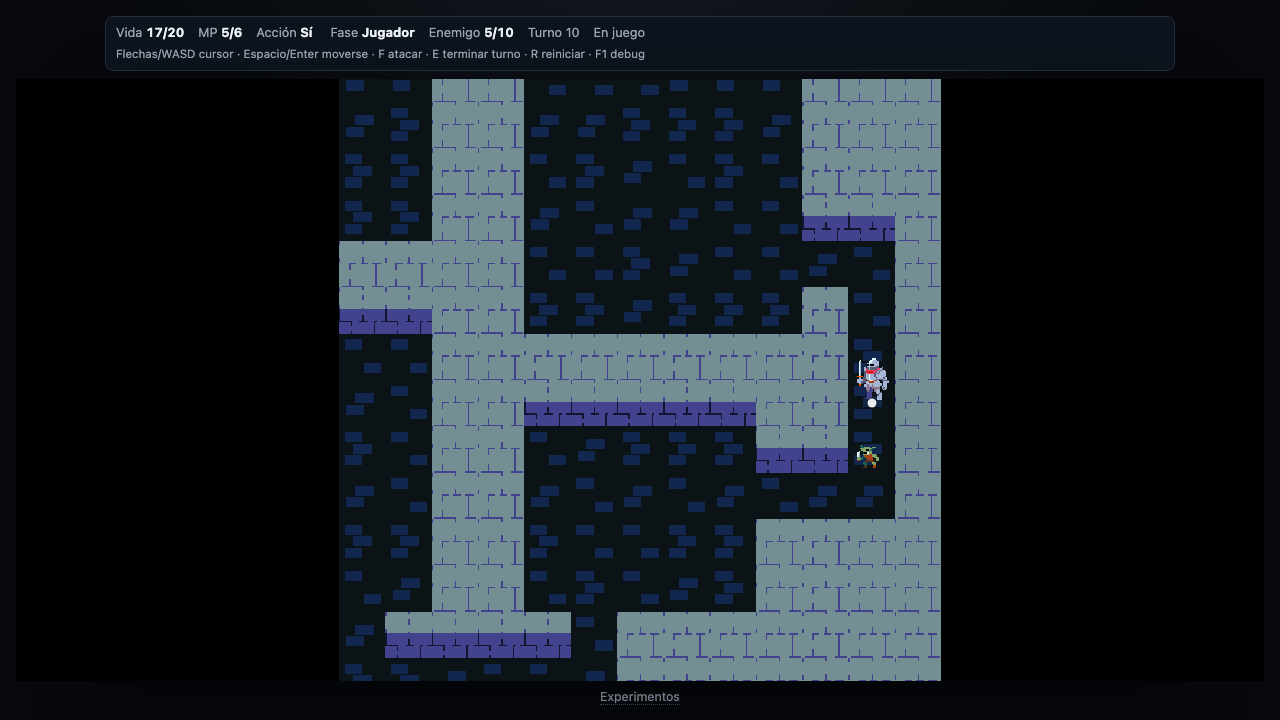
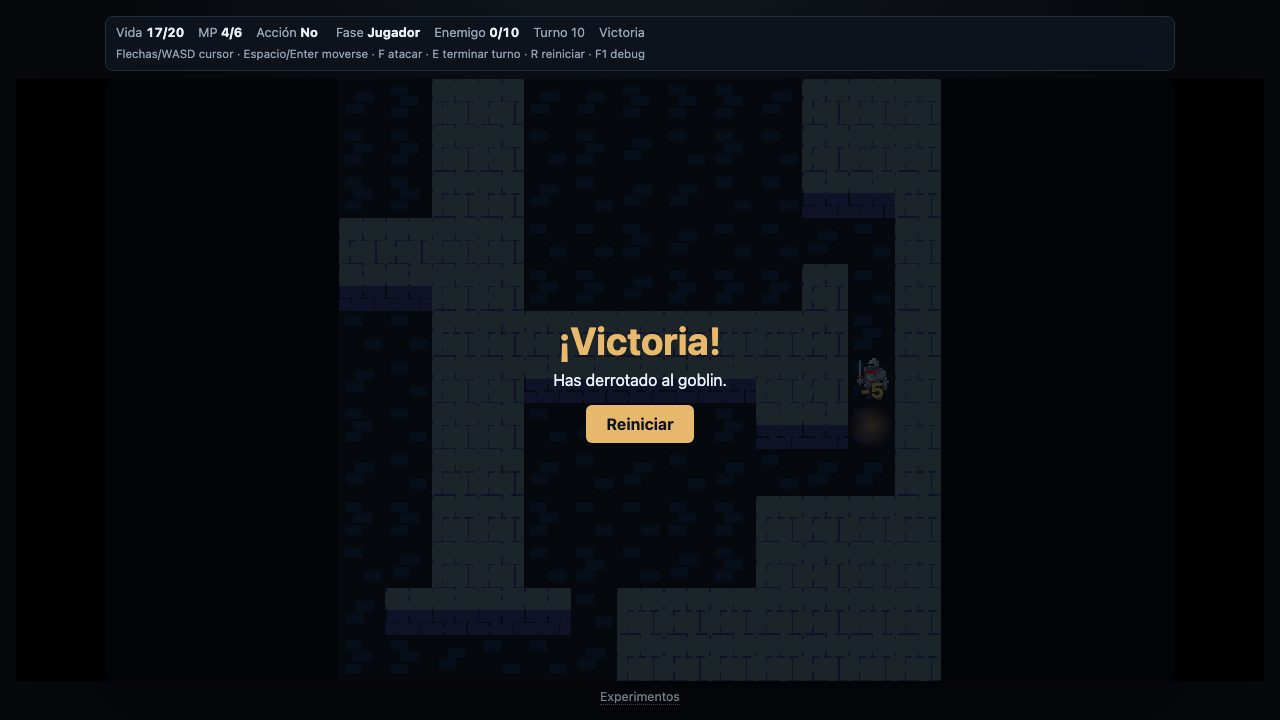
test(TASK-0019): capturar el ataque real y verificar F/E tras la animación

Changed region(s): [[0.25, 0.0917, 0.75, 0.9472], [0.2188, 0.0306, 0.5, 0.0611], [0.25, 0.0917, 0.2812, 0.1222]]

diff --git a/tests/e2e/motion-qa.spec.ts b/tests/e2e/motion-qa.spec.ts
@@ -66,6 +66,7 @@ async function screenshot(
   page: Page,
   name: string,
   testInfo: TestInfo,
+  clip?: { readonly x: number; readonly y: number; readonly width: number; readonly height: number },
 ): Promise<void> {
   // Las repeticiones escriben en `test-results` para no competir por el mismo
   // PNG versionado entre workers.
@@ -74,7 +75,7 @@ async function screenshot(
       ? `${SCREENSHOTS}/${name}.png`
       : testInfo.outputPath(`${name}.png`);
   await mkdir(dirname(path), { recursive: true });
-  await page.screenshot({ path });
+  await page.screenshot({ path, ...(clip ? { clip } : {}) });
   await testInfo.attach(name, { path, contentType: 'image/png' });
 }
 
@@ -543,6 +544,33 @@ test('input de juego ignorado durante la animación; F1 y R responden; R cancela
   expect(afterSecond.animation.animating).toBe(false);
   expect(afterSecond.players[0]).toMatchObject({ x: 7, y: 8, mp: 5 });
   await expect(page.getByTestId('hud-player-mp')).toHaveText('5/6');
+  expect(afterSecond.cursor).toMatchObject({ x: 7, y: 8, visible: true });
+
+  // F vuelve a responder: sin enemigo bajo el cursor es un aviso, no un comando.
+  const beforeF = await snapshot(page);
+  await page.keyboard.press('f');
+  const afterF = await snapshot(page);
+  expect(afterF.players).toEqual(beforeF.players);
+  expect(afterF.enemies).toEqual(beforeF.enemies);
+  expect(afterF.turn).toBe(beforeF.turn);
+  expect(afterF.phase).toBe(beforeF.phase);
+  expect(afterF.lastEvents).toEqual(beforeF.lastEvents);
+  await expect(page.getByTestId('hud-message')).toHaveText('Enemigo fuera de alcance');
+  await expect(page.getByTestId('hud-message')).toBeVisible();
+
+  // E vuelve a responder: termina el turno y la fase enemiga se completa.
+  await page.keyboard.press('e');
+  const afterEndTurn = await settle(page);
+  expect(afterEndTurn).toMatchObject({ turn: 2, phase: 'player', status: 'playing' });
+  expect(afterEndTurn.players[0].actionAvailable).toBe(true);
+  expect(afterEndTurn.cursor).toMatchObject({
+    x: afterEndTurn.players[0].x,
+    y: afterEndTurn.players[0].y,
+    visible: true,
+    state: 'player',
+  });
+  await expect(page.getByTestId('hud-phase')).toHaveText('Jugador');
+  await expect(page.getByTestId('hud-turn')).toHaveText('Turno 2');
 
   expect(consoleErrors).toEqual([]);
 });
@@ -611,7 +639,7 @@ test('moverse sobre un enemigo: recorrido, pausa, daño y overlay al terminar', 
   await expect(page.getByTestId('hud-enemy-hp')).toHaveText('5/10');
   await expect(page.getByTestId('overlay-victory')).toBeHidden();
   await expect(page.getByTestId('cursor')).toBeHidden();
-  await screenshot(page, 'attack-after-walk', testInfo);
+  await screenshot(page, 'attack-approach', testInfo);
 
   // Pausa de destino: la animación sigue activa y aún no hay daño ni overlay.
   const finalPause = await advance(page, HALF_STEP);
@@ -640,6 +668,33 @@ test('moverse sobre un enemigo: recorrido, pausa, daño y overlay al terminar', 
     flashActive: true,
     damage: '-5',
   });
+  // El daño se dibuja bajo el overlay de victoria y su animación CSS lo
+  // desvanece en 900 ms. Se espera al pico de opacidad y se pausan las
+  // animaciones para capturar un frame estable con `-5` y overlay a la vez.
+  await page.waitForFunction(
+    () => {
+      const damage = document.querySelector('[data-testid="damage-feedback"]');
+      return damage !== null && Number(getComputedStyle(damage).opacity) > 0.9;
+    },
+    undefined,
+    { timeout: 1000 },
+  );
+  await page.evaluate(() => {
+    for (const animation of document.getAnimations()) animation.pause();
+  });
+  const damageBox = await page.getByTestId('damage-feedback').boundingBox();
+  if (!damageBox || damageBox.width === 0 || damageBox.height === 0) {
+    throw new Error('El feedback de daño no está visible para la captura');
+  }
+  await screenshot(page, 'attack-after-walk', testInfo);
+  await screenshot(page, 'attack-damage-detail', testInfo, {
+    x: Math.max(0, Math.round(damageBox.x) - 70),
+    y: Math.max(0, Math.round(damageBox.y) - 50),
+    width: 180,
+    height: 150,
+  });
+  await expect(page.getByTestId('damage-feedback')).toHaveText('-5');
+  await expect(page.getByTestId('damage-feedback')).toBeVisible();
   await expect(page.getByTestId('overlay-victory')).toBeVisible();
   await expect(page.getByTestId('hud-enemy-hp')).toHaveText('0/10');
   await expect(page.getByTestId('hud-status')).toHaveText('Victoria');
